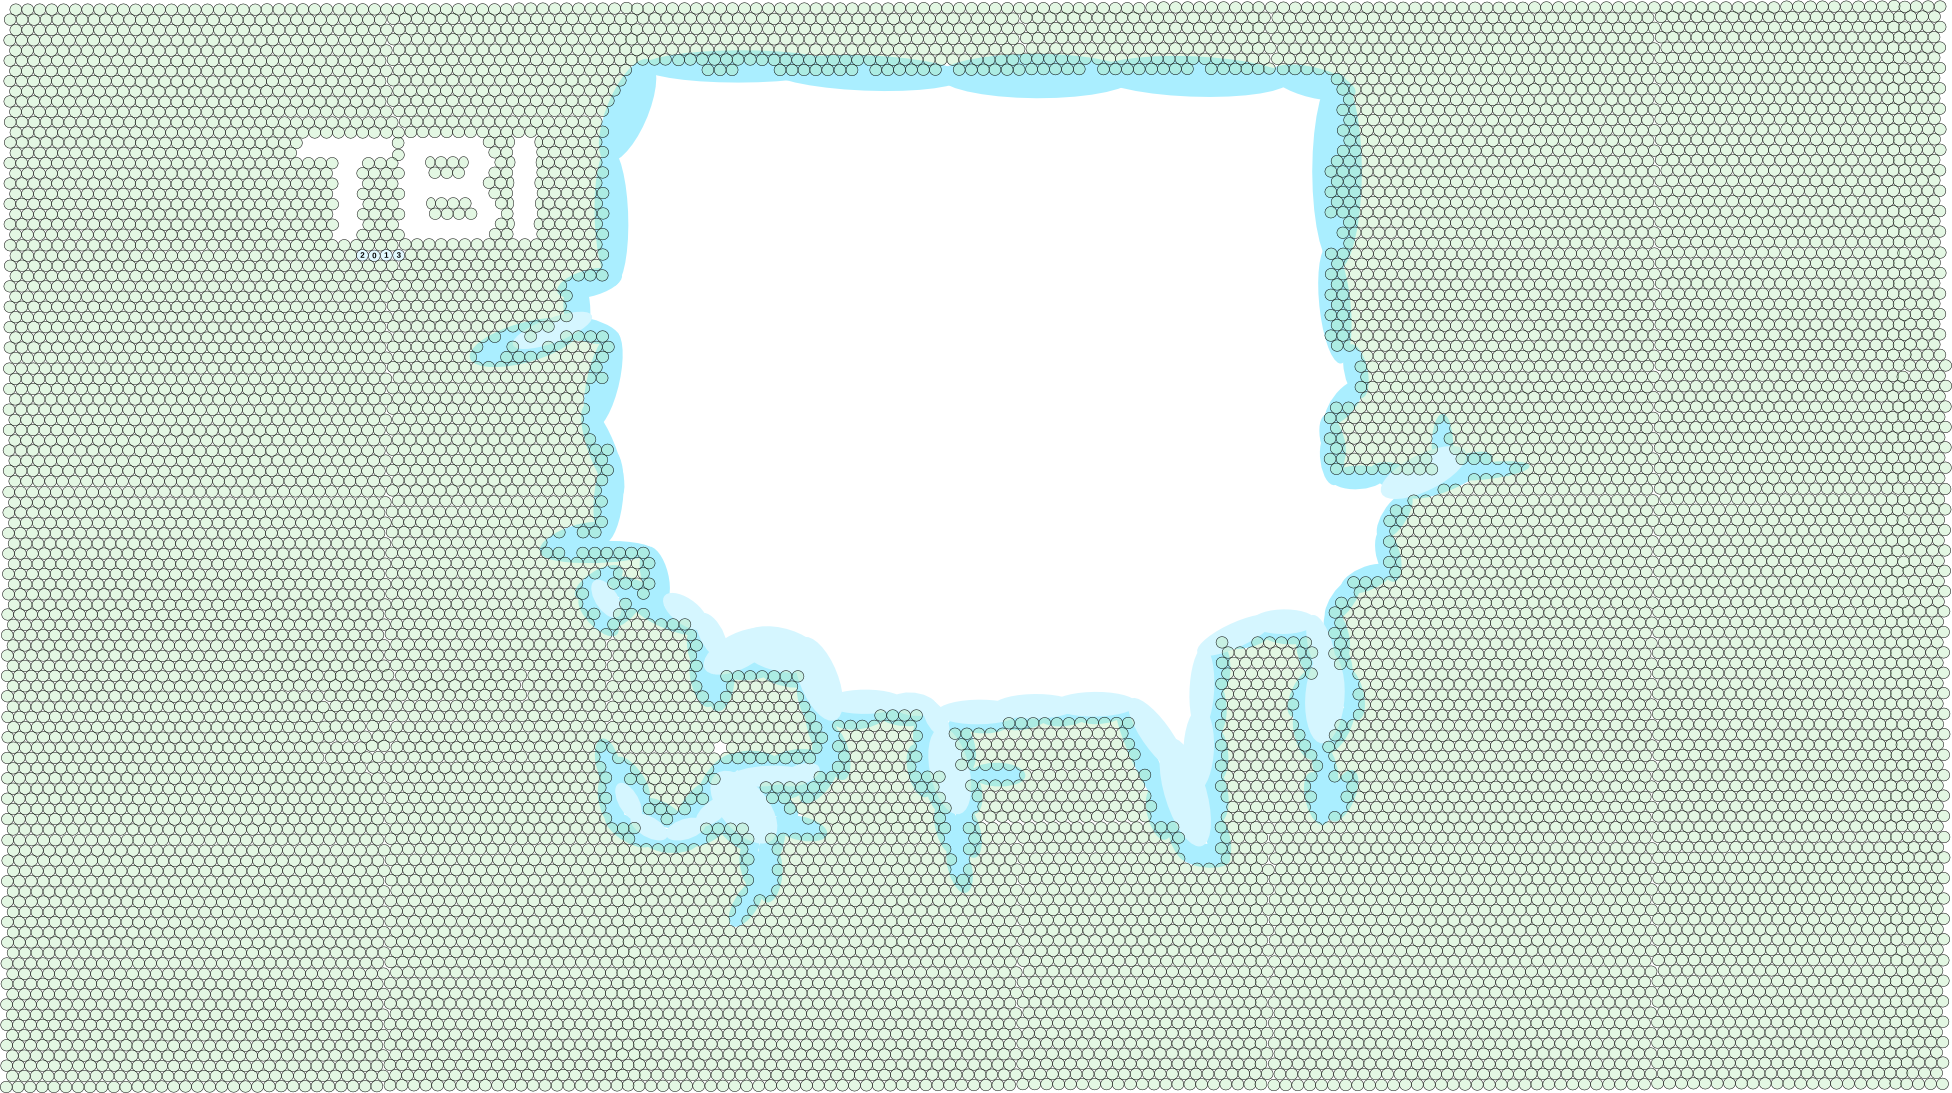
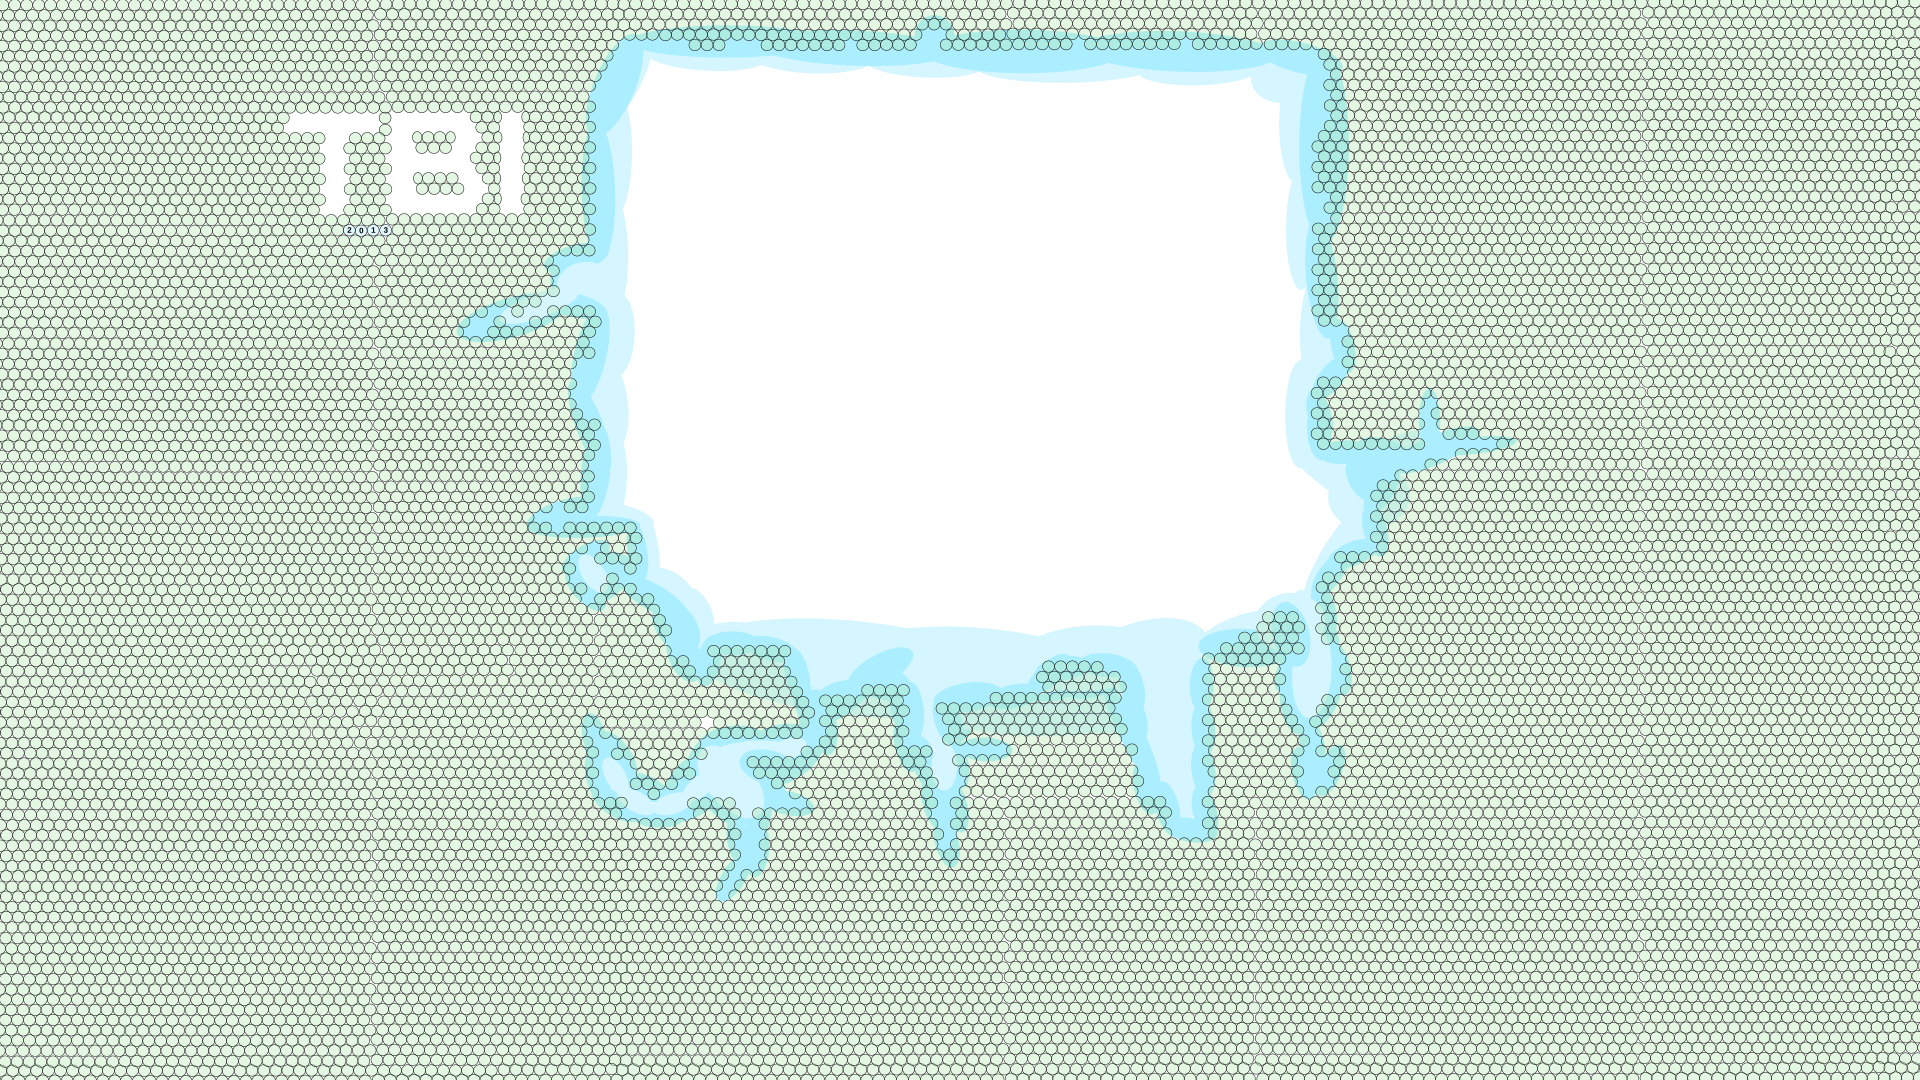
Added lower and upper delimiters of canvas

diff --git a/index.html b/index.html
@@ -98,9 +98,14 @@ $(function(){ main();});
       </form>
       <div id="maincontainer">	
 	<a style="position:relative; top:50px; left:0%;" id="Start">
-	  <img src="./graphics/logo.png" alt="logo" style="position:relative; z-index:6;">
+	  <img src="./graphics/logo.png" alt="logo" style="position:absolute; z-index:6;">
 	</a>
-	  <canvas id="mainCanvas" width="600" height="600">Canvas is not supported</canvas>
+	  <canvas id="mainCanvas" width="600" height="600">Canvas is not
+	  supported</canvas>
+	  <img src="./graphics/uppercanvasdelimiter.png" alt="uppercanvasdelimiter"
+	       style="position:relative; left:-2px; top:16px; z-index:8;">
+	  <img src="./graphics/lowercanvasdelimiter.png" alt="lowercanvasdelimiter"
+	       style="position:relative; left:-4px; top:482px; z-index:8;">
       </div>
       <span id="printHere"></span>
   </body>

diff --git a/main.css b/main.css
@@ -8,7 +8,6 @@ body {
 }
  
 #maincontainer {
-
     color: #000000;
     font-family: Lucida Console,Monaco5,monospace;
     font-size: 10pt;
